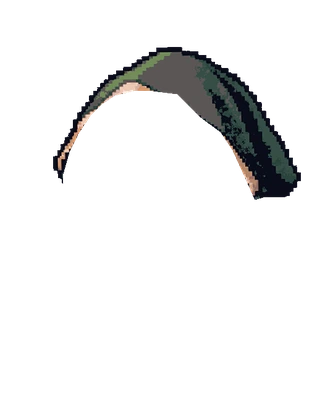
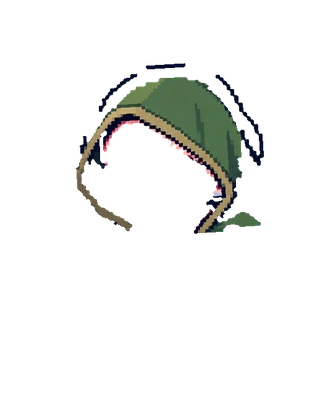
Quest: Moon face, and helmets from the heads sheet
One ChatGPT sheet of six heads (plain, moon face, four helmets) is lined up by
the eyes. Helmets are what differs from the plain tile, with small holes filled;
each helmet's hair mask is everything below its lowest pixel per column, so bangs
show inside the hood. The moon face is the whole tile head, with its own blink.
Eyes are found as a level pair, since skull rims, helmet edges and gems are blue too.
Edit hero gets a Face choice. Helmet tiers in ART_SPEC_3 now use the same sheet format.

Claude-Session: https://claude.ai/code/session_01LbCAadJR4DWp6aBto5Sxjr

Changed region(s): [[0.1502, 0.12, 0.9009, 0.6]]

diff --git a/js/quest.js b/js/quest.js
@@ -143,9 +143,12 @@
   const HAIRS = ["short", "spiky", "long", "twin", "moon"];
   const HAIR_NAME = { short: "Short", spiky: "Spiky", long: "Long", twin: "Twin tails", moon: "Moon bun" };
   const HAIR_COLORS = { brown: "#8a5a3a", black: "#34313f", blonde: "#deac4e", ash: "#d6cec8", auburn: "#aa3c28", teal: "#2c8e92", frost: "linear-gradient(160deg,#cfe6fa 35%,#c4a6ea)" };
+  const FACES = ["classic", "moon"];
+  const FACE_NAME = { classic: "Classic", moon: "Moon" };
   function lookOf(l) {
     l = l || {};
-    return { hair: HAIRS.includes(l.hair) ? l.hair : "short", hc: HAIR_COLORS[l.hc] ? l.hc : "brown", helm: l.helm !== false };
+    return { face: FACES.includes(l.face) ? l.face : "classic", hair: HAIRS.includes(l.hair) ? l.hair : "short",
+      hc: HAIR_COLORS[l.hc] ? l.hc : "brown", helm: l.helm !== false };
   }
   function heroOf(S) {
     const h = (S.game && S.game.hero) || {};
@@ -474,7 +477,8 @@ Rules: higher rarity means a grander name. No brand names, real people, or chara
     const L = robe ? [] : [["cape", "hero-cape"]];   // robes have no cape
     L.push(["b", "hero-body" + (ar ? "-" + ar : "")], ["ft", "hero-boots" + (bt ? "-" + bt : "")]);
     if (robe) L.push(["hem", "hero-hem-" + ar]);
-    L.push(["w", "hero-wpn-" + w], ["hn", "hero-hand"], ["hd", "hero-face"], ["bl", "hero-blink-face"]);
+    const fc = look.face === "classic" ? "" : "-" + look.face;
+    L.push(["w", "hero-wpn-" + w], ["hn", "hero-hand"], ["hd", "hero-face" + fc], ["bl", "hero-blink-face" + fc]);
     const hairL = ["hr", `hero-hair-${look.hair}-${look.hc}`];
     if (look.helm && HAIR_MASKED.has(hd.split("-")[0])) hairL.push("hero-hairmask-" + hd);
     L.push(hairL);
@@ -531,7 +535,7 @@ Rules: higher rarity means a grander name. No brand names, real people, or chara
 
   const Core = { RAR, RCOL, ODDS, PITY_RARE, PITY_LEG, CHEST_COST, RALLY, SLOTS, SLOT_NAME, SHAPES, NOUN, SKILLS, CLASSES, RANKS, MOBS, FLYING, MOB_SCALE, STARTER, THEME, STOPS_XY,
     art, doneSets, stepGoal, stepsOn, dayStatus, mobsForWeek, weekStops, levelOf, rankOf, statsAt, gearOf, equipped, heroOf, baseEvents, battle, bossFor, summary,
-    pityOf, rollRarity, localItem, aiPrompt, parseItem, migrateItem, iconOf, heroLayers, TIERED, artKey, HAIR_MASKED, HAIRS, HAIR_NAME, HAIR_COLORS, lookOf, buildRoute, achText, ACH_COUNT: ACH.length, chestSVG, hashF, seeded };
+    pityOf, rollRarity, localItem, aiPrompt, parseItem, migrateItem, iconOf, heroLayers, TIERED, artKey, HAIR_MASKED, HAIRS, HAIR_NAME, HAIR_COLORS, FACES, FACE_NAME, lookOf, buildRoute, achText, ACH_COUNT: ACH.length, chestSVG, hashF, seeded };
   if (typeof module === "object" && module.exports) { module.exports = Core; return; }
   root.SPQuestCore = Core;
 
@@ -630,6 +634,8 @@ Rules: higher rarity means a grander name. No brand names, real people, or chara
         }
       }, extra ? extra(k) : null), text(k))));
       const hairBox = h("div", { class: "q-hairopts" },
+        h("h3", null, "Face"),
+        radios("Face", C.FACES, k => d.look.face === k, k => C.FACE_NAME[k], k => { d.look.face = k; redraw(); }),
         h("h3", null, "Hair"),
         radios("Hairstyle", C.HAIRS, k => d.look.hair === k, k => C.HAIR_NAME[k], k => { d.look.hair = k; redraw(); }),
         radios("Hair colour", Object.keys(C.HAIR_COLORS), k => d.look.hc === k, () => "", k => { d.look.hc = k; redraw(); },

diff --git a/test/quest.test.js b/test/quest.test.js
@@ -229,8 +229,8 @@ test("every art file the game can ask for exists", () => {
     for (const cls of Object.keys(Q.CLASSES))
       Q.heroLayers({ [slot]: { slot, shape: sh } }, null, cls).forEach(l => { files.add(l.src); if (l.mask) files.add(l.mask); });
   }
-  for (const hair of Q.HAIRS) for (const hc of Object.keys(Q.HAIR_COLORS)) for (const helm of [true, false])
-    Q.heroLayers({}, { hair, hc, helm }).forEach(l => { files.add(l.src); if (l.mask) files.add(l.mask); });
+  for (const hair of Q.HAIRS) for (const hc of Object.keys(Q.HAIR_COLORS)) for (const helm of [true, false]) for (const face of Q.FACES)
+    Q.heroLayers({}, { hair, hc, helm, face }).forEach(l => { files.add(l.src); if (l.mask) files.add(l.mask); });
   Object.keys(Q.MOBS).forEach(m => files.add(Q.art(m)));
   ["bg-forest", "platform", "platform-boss", "flag", "signpost"].forEach(k => files.add(Q.art(k)));
   for (let w = 0; w < 20; w++) files.add(Q.art(Q.bossFor(E.addDays("2026-01-05", w * 7), 1, 3).art));
@@ -257,10 +257,12 @@ test("hero look: hair shows under any helmet, class sets the outfit, armour and 
     "hero-face.webp", "hero-blink-face.webp", "hero-hair-twin-teal.webp"]);
   assert.ok(!robe.some(l => l.mask));
   assert.deepStrictEqual(keys(Q.heroLayers({ armor: { slot: "armor", shape: 0 } }, null, "spell")).slice(0, 2), ["hero-cape.webp", "hero-body-leather.webp"]);
-  assert.deepStrictEqual(Q.lookOf({ hair: "mohawk", hc: "pink", helm: 0 }), { hair: "short", hc: "brown", helm: true });
+  assert.deepStrictEqual(Q.lookOf({ hair: "mohawk", hc: "pink", helm: 0, face: "elf" }), { face: "classic", hair: "short", hc: "brown", helm: true });
+  const moon = keys(Q.heroLayers({}, { face: "moon", hair: "moon", hc: "frost" }, "spell"));
+  assert.ok(moon.includes("hero-face-moon.webp") && moon.includes("hero-blink-face-moon.webp") && moon.includes("hero-hair-moon-frost.webp"));
   const S = { game: { hero: { cls: "spell", name: "Stan", look: { hair: "long", hc: "ash", helm: false } } } };
-  assert.deepStrictEqual(Q.heroOf(S).look, { hair: "long", hc: "ash", helm: false });
-  assert.deepStrictEqual(Q.heroOf({ game: { hero: { cls: "spell" } } }).look, { hair: "short", hc: "brown", helm: true });
+  assert.deepStrictEqual(Q.heroOf(S).look, { face: "classic", hair: "long", hc: "ash", helm: false });
+  assert.deepStrictEqual(Q.heroOf({ game: { hero: { cls: "spell" } } }).look, { face: "classic", hair: "short", hc: "brown", helm: true });
 });
 
 test("rarity picks its own drawing once it ships, never a tint", () => {

diff --git a/sw.js b/sw.js
@@ -1,10 +1,10 @@
 /* Setpoint service worker — makes the app work offline after the first visit.
    Bump VERSION whenever you change any file so phones pick up the update. */
-const VERSION = "setpoint-3.6.0";
+const VERSION = "setpoint-3.7.0";
 // Quest art lives in its own cache that survives app updates. Its name is a
 // fingerprint of assets/quest/ (node tools/art-hash.js); the tests fail if it's stale,
 // so changed art always reaches phones instead of the old copy being served.
-const ART = "setpoint-art-246a9bb6";
+const ART = "setpoint-art-18e94708";
 const SHELL = [
   "./", "index.html", "manifest.webmanifest",
   "css/app.css", "js/engine.js", "js/foods.js", "js/charts.js", "js/exercises.js", "js/train.js", "js/quest.js", "js/sync.js", "js/app.js", "js/exlib-full.js",

diff --git a/tools/quest-doll.py b/tools/quest-doll.py
@@ -8,7 +8,7 @@
 # Heads are aligned by eye position, weapons by grip point.
 #
 # Stack, back to front: cape, body, boots, hem, weapon, hand, head|face, blink, tail|hair
-import sys, math, numpy as np
+import sys, os, math, numpy as np
 from PIL import Image
 from scipy import ndimage as nd
 SP = sys.argv[1]; OUT = f"{SP}/doll"
@@ -192,6 +192,64 @@ for hn in ["kettle", "horned", "hood", "circlet"]:
 layers["blink-face"] = blink_for(layers["face"])
 FACE_EYES = eye_cover(layers["face"])[0]
 
+# ---------- heads sheet (art/hero-heads-sheet.png): a 3x2 of the bald head, drawn by
+# ChatGPT in one go: plain | moon face | kettle / horned | hood | circlet. Every tile is
+# moved onto the doll by its eyes. Helmets are what differs from the plain tile; the
+# moon face is the whole tile head. These replace the hand-traced helmets above.
+HEADS = f"{SP}/art/hero-heads-sheet.png"
+if os.path.exists(HEADS):
+    hs = np.array(Image.open(HEADS).convert("RGBA")); HH, HW = hs.shape[:2]
+    names = [["base", "moon", "kettle"], ["horned", "hood", "circlet"]]
+    face_eyes = eyes_of(layers["face"])[1]
+    D = {}
+    for r in range(2):
+        for c in range(3):
+            t = np.zeros_like(hs); y0, y1, x0, x1 = r * HH // 2, (r + 1) * HH // 2, c * HW // 3, (c + 1) * HW // 3
+            t[y0:y1, x0:x1] = hs[y0:y1, x0:x1]
+            ti = t.astype(int)
+            blue = (ti[:, :, 2] > ti[:, :, 0] + 60) & (ti[:, :, 2] > 150) & (ti[:, :, 3] > 200)
+            lab, k = nd.label(blue); sz = nd.sum(blue, lab, range(1, k + 1))
+            cands = [nd.center_of_mass(blue, lab, i + 1)[::-1] for i in range(k) if sz[i] > 150]   # (x, y)
+            # eyes are a pair: side by side, level, a set distance apart. Skull rims, helmet
+            # edges and gems are blue too but never form such a pair.
+            pairs = [(abs(p[1] - q[1]), p, q) for p in cands for q in cands
+                     if 80 <= q[0] - p[0] <= 130 and abs(p[1] - q[1]) < 15]
+            assert pairs, f"no eye pair in heads tile {r},{c}"
+            ey = list(min(pairs)[1:])
+            # place() takes a square canvas: pad the tile into one big enough, then map onto the doll
+            big = np.zeros((max(HH, HW), max(HH, HW), 4), np.uint8); big[:HH, :HW] = t
+            pl = Image.fromarray(big)
+            (a1, a2), (b1, b2) = ey, face_eyes
+            sv = np.subtract(a2, a1); dv = np.subtract(b2, b1)
+            sc = np.hypot(*dv) / np.hypot(*sv); ang = math.atan2(dv[1], dv[0]) - math.atan2(sv[1], sv[0])
+            cc, si = math.cos(ang) * sc, math.sin(ang) * sc
+            M = np.array([[cc, -si], [si, cc]]); tt = np.mean([b1, b2], 0) - M @ np.mean([a1, a2], 0)
+            Mi = np.linalg.inv(M); ti2 = -Mi @ tt
+            D[names[r][c]] = np.array(pl.transform((N, N), Image.AFFINE, (Mi[0, 0], Mi[0, 1], ti2[0], Mi[1, 0], Mi[1, 1], ti2[1]), resample=Image.NEAREST))
+    base_t = D["base"].astype(int)
+    for hn in ["kettle", "horned", "hood", "circlet"]:
+        t = D[hn].astype(int)
+        d = (np.abs(t - base_t)[:, :, :3].sum(2) > 90) & (t[:, :, 3] > 200)
+        d = nd.binary_opening(d, iterations=1)
+        d = blobs(d, 300)
+        d = nd.binary_closing(d, iterations=2)
+        # fill small holes where steel shine matched the bald scalp's shine
+        holes = nd.binary_fill_holes(d) & ~d
+        lab, k = nd.label(holes); sz = nd.sum(holes, lab, range(1, k + 1))
+        d |= np.isin(lab, [i + 1 for i, z in enumerate(sz) if z < 2500])
+        d &= t[:, :, 3] > 200
+        hl = np.zeros_like(D[hn]); hl[d] = D[hn][d]; hl[:, :, 3] = np.where(d, 255, 0)
+        layers["helm-" + hn] = hl
+        if hn in HELM_CUT:      # hair shows only below the helmet's lowest pixel in each column
+            low = np.where(d.any(0), N - 1 - np.argmax(d[::-1], 0), -1)
+            mk = np.zeros((N, N, 4), np.uint8); mk[yy > low[None, :]] = 255
+            layers["hairmask-" + hn] = mk
+    # moon face: the whole tile head, cut at the neck like the plain face
+    mf = D["moon"].copy(); mf[NECK + 14:] = 0; mf[:, :, 3] = np.where(mf[:, :, 3] > 200, 255, 0)
+    mf[~blobs(mf[:, :, 3] > 0, 2000)] = 0
+    layers["face-moon"] = mf
+    layers["blink-face-moon"] = blink_for(mf)
+
 # ---------- weapons from the icon sheet, put in the hand
 wsheet = load("eq-weapon")
 GRIP = (285.0, 529.0)
@@ -300,7 +358,7 @@ for s in ["short", "spiky", "long", "twin", "moon"]:
 BOX = (114, 59, 653, 706)
 ys, xs = np.nonzero(np.max([l[:, :, 3] for l in layers.values()], axis=0) > 0)
 # the old whole heads (with the pale hair) and ponytail are only inputs now
-for n in [k for k in layers if k.startswith("head-") or k == "tail" or (k.startswith("blink-") and k != "blink-face")]:
+for n in [k for k in layers if k.startswith("head-") or k == "tail" or (k.startswith("blink-") and not k.startswith("blink-face"))]:
     del layers[n]
 for n, l in layers.items():
     if n.startswith("hairmask"): continue

diff --git a/art/ART_SPEC_3.md b/art/ART_SPEC_3.md
@@ -15,17 +15,17 @@ There are 4 slots with 4 shapes each, and each shape gets 4 new tiers. Common is
 | Order | Slot | Images | Shows on |
 |---|---|---|---|
 | 1 | Weapons | 4 sheets | Icon and hero (the held weapon is cut from the icon) |
-| 2 | Helmets | 4 icon sheets + 16 hero edits | Icon and hero |
+| 2 | Helmets | 4 sheets | Icon and hero |
 | 3 | Armour | 4 icon sheets + 16 hero edits | Icon and hero |
 | 4 | Boots | 4 icon sheets + 16 hero edits | Icon and hero |
 
-That's 60 images, plus the 6 in Part 0. Upload in batches: the app uses whatever has arrived and keeps the Common look for the rest. Weapons come first: 4 images, no hero edits.
+That's 44 images, plus Part 0. Upload in batches: the app uses whatever has arrived and keeps the Common look for the rest. Weapons come first: 4 images, no hero edits.
 
 **Secrecy.** You'll see each design while you generate it, so the looks won't be a surprise. What stays hidden is when an item drops, its stats, its skill and its name. The prompts below don't describe the designs, so you aren't reading a list of rewards; ChatGPT designs them inside the tier ladder.
 
 ---
 
-## Part 0 — do these first (6 images)
+## Part 0 — do these first. Done (one heads sheet: `hero-heads-sheet.png`)
 
 These fix the helmets properly and add the face and hair from your reference picture. All are edits, so the app can line them up with the existing hero.
 
@@ -115,40 +115,35 @@ Check it against `eq-weapon.png` side by side. If any tile looks like the old we
 
 ---
 
-## 2. Helmets (4 icon sheets, then 16 hero edits)
+## 2. Helmets (4 sheets)
 
-Same pattern as armour: icons first, then each one worn by the bald hero, so it sits over any hairstyle.
+Same format as the heads sheet that worked for Part 0. Each sheet gives one helmet in all four tiers on the bald head. The app lines the heads up by the eyes, cuts the helmets out against the plain tile, and uses the tiles as icons too, so no separate icon sheets are needed.
 
-**Step 1, icons.** Attach **`eq-helm.png`**.
+Attach **`hero-bald.png`** and **`eq-helm.png`**:
 
 ```
-2x2 sheet of headgear icons, transparent background, each helmet alone and centred in its quarter, front three-quarter view, no head or face.
-Four tiers of [HELM]:
-top-left Uncommon, top-right Rare, bottom-left Epic, bottom-right Legendary.
-[paste TIER RULE]
+Make ONE image: a 3x2 sheet of head portraits, transparent background, no text, no frames, no dividing lines, no glow behind the heads.
+
+Every tile shows the SAME bald head from the first attached character: same pixel-art style, same face and eyes, same three-quarter angle facing right, same size, same position in its tile, cropped just below the chin. Heads must not touch each other or the edges.
+
+top-left: the bald head unchanged, no helmet.
+top-middle: wearing an Uncommon [HELM].
+top-right: wearing a Rare [HELM].
+bottom-left: wearing an Epic [HELM].
+bottom-right: wearing a Legendary [HELM].
+bottom-middle: leave empty.
+
+Base the design on the [HELM] in the second attached sheet. TIER RULE: each tier must be a DIFFERENT helmet with its own silhouette, materials and details, clearly more impressive from Uncommon to Legendary. Do NOT make recolours. Keep the eyes fully visible and the face unchanged in every tile.
 ```
 
 | File | [HELM] |
 |---|---|
-| `eq-helm-kettle-tiers.png` | a kettle helm (brimmed open helmet) |
-| `eq-helm-horned-tiers.png` | a horned helmet |
-| `eq-helm-hood-tiers.png` | a ranger's hood |
-| `eq-helm-circlet-tiers.png` | a circlet or crown-band |
+| `heads-kettle-tiers.png` | kettle helm |
+| `heads-horned-tiers.png` | horned helmet |
+| `heads-hood-tiers.png` | ranger's hood |
+| `heads-circlet-tiers.png` | circlet |
 
-**Step 2, worn.** For each tile, attach **`hero-bald.png`** and the sheet from step 1:
-
-```
-Edit the first attached character. Keep everything identical: same pose, same framing, same position and size in the image, same bald head, same face, same clothes, same sword. Put on the [POSITION] helmet from the second attached sheet, matching its design exactly. Keep the eyes fully visible. Change nothing else. Transparent background.
-```
-
-| Files | [POSITION] |
-|---|---|
-| `hero-helm-<shape>-r1.png` | top-left |
-| `hero-helm-<shape>-r2.png` | top-right |
-| `hero-helm-<shape>-r3.png` | bottom-left |
-| `hero-helm-<shape>-r4.png` | bottom-right |
-
-Check: the face and head haven't moved, and the eyes are visible.
+Check: all heads are the same size, and the eyes sit at the same height in every tile. The Uncommon must not look like the attached Common helmet.
 
 ---
 
